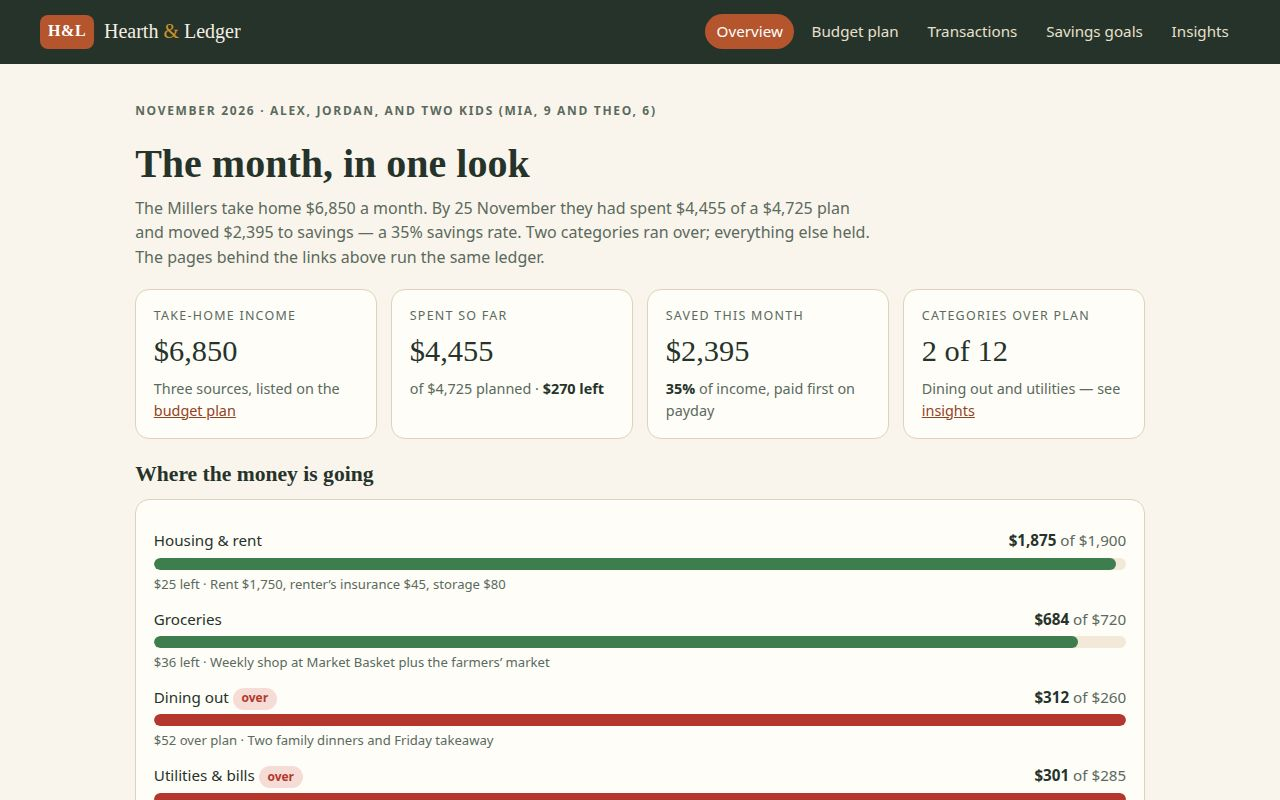
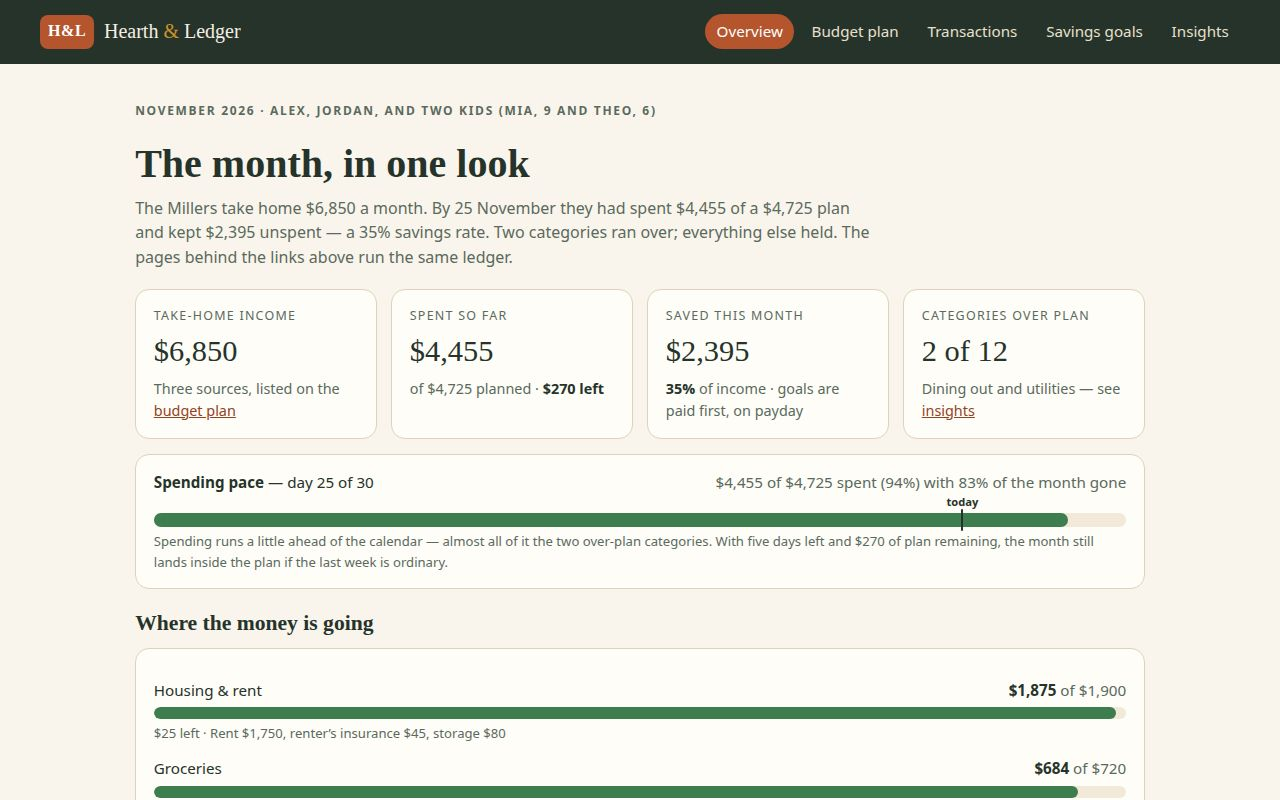
Polish: spending-pace card on the overview, donut legend styling, savings figures made consistent

Changed region(s): [[0.0938, 0.5625, 0.875, 1.0], [0.0938, 0.2812, 0.6875, 0.3438], [0.5312, 0.4688, 0.6562, 0.5312]]

diff --git a/app/views.js b/app/views.js
@@ -30,14 +30,20 @@ export function overviewView(state) {
     <p class="kicker">${HOUSEHOLD.month} · ${HOUSEHOLD.members}</p>
     <h1>The month, in one look</h1>
     <p>The Millers take home ${money(income)} a month. By 25 November they had spent ${money(spent)} of a
-    ${money(budgeted)} plan and moved ${money(saved)} to savings — a ${rate}% savings rate. Two categories
+    ${money(budgeted)} plan and kept ${money(saved)} unspent — a ${rate}% savings rate. Two categories
     ran over; everything else held. The pages behind the links above run the same ledger.</p>
   </div>
   <div class="cards">
     <div class="card"><p class="label">Take-home income</p><p class="figure">${money(income)}</p><p class="sub">Three sources, listed on the <a href="#/budget">budget plan</a></p></div>
     <div class="card"><p class="label">Spent so far</p><p class="figure">${money(spent)}</p><p class="sub">of ${money(budgeted)} planned · <strong>${money(budgeted - spent)} left</strong></p></div>
-    <div class="card"><p class="label">Saved this month</p><p class="figure">${money(saved)}</p><p class="sub"><strong>${rate}%</strong> of income, paid first on payday</p></div>
+    <div class="card"><p class="label">Saved this month</p><p class="figure">${money(saved)}</p><p class="sub"><strong>${rate}%</strong> of income · goals are paid first, on payday</p></div>
     <div class="card"><p class="label">Categories over plan</p><p class="figure">${state.categories.filter((c) => c.spent > c.budget).length} of ${state.categories.length}</p><p class="sub">Dining out and utilities — see <a href="#/insights">insights</a></p></div>
+  </div>
+
+  <div class="card pace">
+    <div class="bar-head"><span><strong>Spending pace</strong> — day 25 of 30</span><span class="amounts">${money(spent)} of ${money(budgeted)} spent (${Math.round((spent / budgeted) * 100)}%) with ${Math.round((25 / 30) * 100)}% of the month gone</span></div>
+    <div class="bar" style="margin-top:1.2rem"><span style="width:${Math.round((spent / budgeted) * 100)}%"></span><span class="pace-marker" style="left:${Math.round((25 / 30) * 100)}%"></span></div>
+    <p class="bar-note">Spending runs a little ahead of the calendar — almost all of it the two over-plan categories. With five days left and ${money(budgeted - spent)} of plan remaining, the month still lands inside the plan if the last week is ordinary.</p>
   </div>
 
   <h2 class="section">Where the money is going</h2>

diff --git a/app/style.css b/app/style.css
@@ -244,7 +244,32 @@ input.budget-edit { width: 6.2rem; text-align: right; }
 .chart-card .chart-sub { margin: 0 0 0.6rem; color: var(--ink-soft); font-size: 0.88rem; }
 svg.chart { width: 100%; height: auto; display: block; }
 .legend { display: flex; gap: 1.2rem; font-size: 0.85rem; color: var(--ink-soft); margin-top: 0.4rem; }
-.legend .swatch { display: inline-block; width: 0.8rem; height: 0.8rem; border-radius: 3px; margin-right: 0.35rem; vertical-align: -0.1rem; }
+.swatch { display: inline-block; width: 0.8rem; height: 0.8rem; border-radius: 3px; margin-right: 0.35rem; vertical-align: -0.1rem; flex: none; }
+.legend-row { display: flex; align-items: center; gap: 0.45rem; padding: 0.28rem 0; border-bottom: 1px dashed var(--line); font-size: 0.94rem; }
+.legend-row:last-child { border-bottom: none; }
+.legend-row .legend-pct { margin-left: auto; font-weight: 700; }
+
+/* ---------- month pace ---------- */
+
+.pace { margin-top: 0.9rem; }
+.pace .bar { position: relative; height: 14px; overflow: visible; }
+.pace .bar > span { border-radius: 999px; }
+.pace .pace-marker {
+  position: absolute;
+  top: -4px;
+  width: 2px;
+  height: 22px;
+  background: var(--ink);
+}
+.pace .pace-marker::after {
+  content: "today";
+  position: absolute;
+  top: -1.05rem;
+  left: -0.9rem;
+  font-size: 0.7rem;
+  font-weight: 700;
+  color: var(--ink);
+}
 
 /* ---------- goals ---------- */
 

diff --git a/app/data.js b/app/data.js
@@ -76,5 +76,5 @@ export const TIPS = [
   { title: 'Dining out is $52 over plan', body: 'Two family dinners and the Friday takeaway added up. The Millers\u2019 fix for December: one dinner out, and takeaway moves to every second Friday — worth about $90 a month.' },
   { title: 'The grocery run is a quiet win', body: 'Four Market Basket trips and one market visit came to $684 against a $720 budget. A written list and a no-top-up-shop rule did it; the midweek \u201cjust milk\u201d trip used to add $60 a month.' },
   { title: 'August is the expensive month', body: 'Spending peaked at $5,210 in August — holidays and school-start costs. The plan now puts $120 a month into an \u201cAugust fund\u201d from January, so the peak stops being a surprise.' },
-  { title: 'Savings rate: 23% and holding', body: 'Of $6,850 coming in, $1,600 went straight to goals on payday. Paying savings first — before the month can spend it — is the single habit behind every other number on this page.' },
+  { title: 'Savings rate: 35% this month', body: 'Of $6,850 coming in, $2,395 was still unspent on the 25th; $800 of it goes to the three goals on payday and the rest builds the current-account buffer. Paying savings first — before the month can spend it — is the single habit behind every other number on this page.' },
 ];
